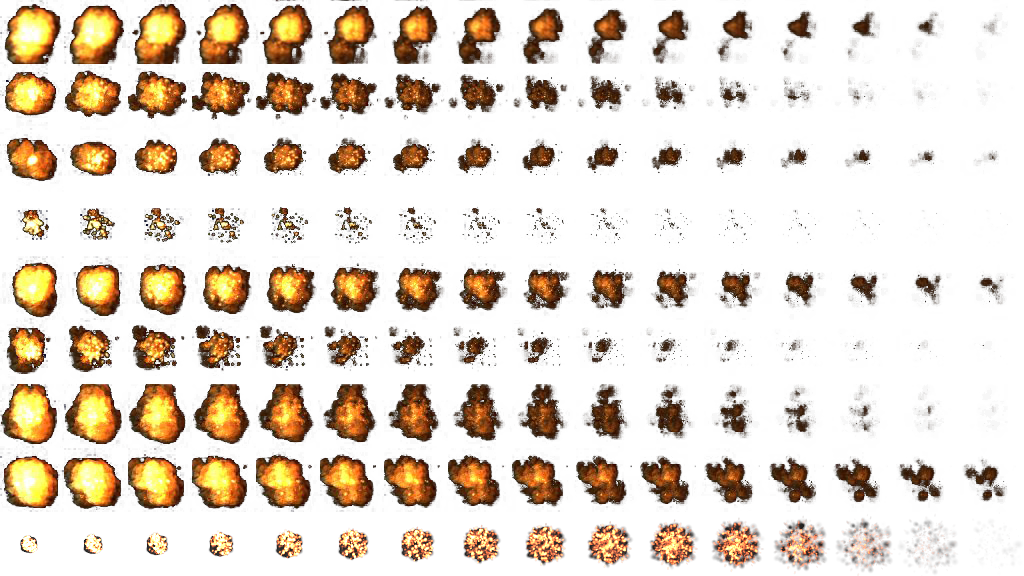
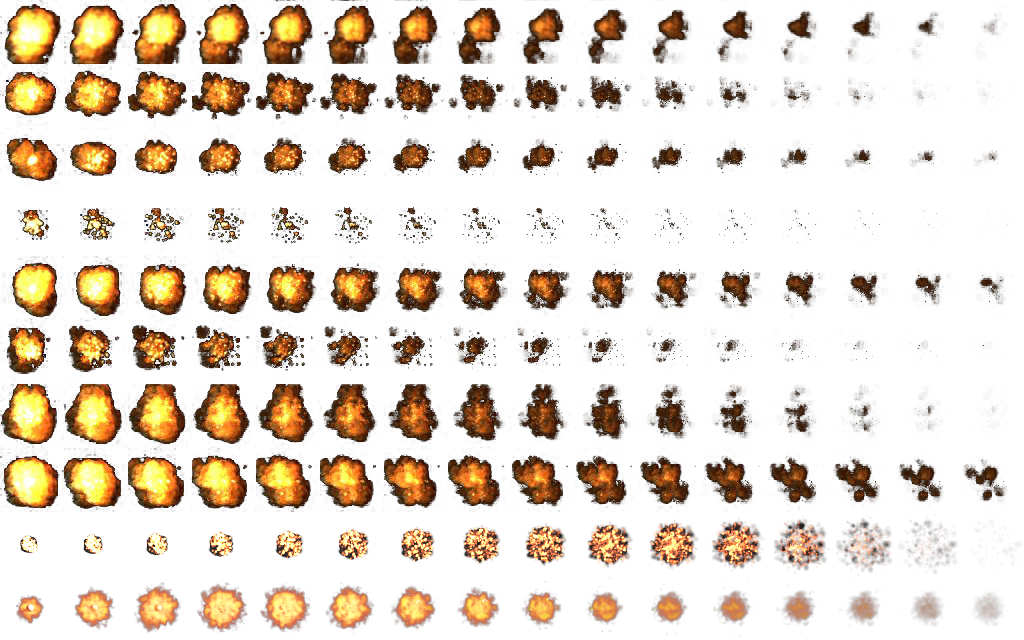
sprites and buttons

diff --git a/src/main/java/com/tesserate/jackpot/Jackpot.java b/src/main/java/com/tesserate/jackpot/Jackpot.java
@@ -8,11 +8,13 @@ import com.tesserate.game.api.fs.ResourceManager;
 import com.tesserate.game.api.fs.TextFileResource;
 import com.tesserate.game.api.sound.SoundManager;
 import com.tesserate.game.api.ui.FullScreenDevice;
+import com.tesserate.game.api.ui.NullRepaintManager;
 import com.tesserate.game.api.ui.SceneGraph;
 
 public class Jackpot extends GameCore{
 
 	private Arena arena;
+	private static String file = "";
 
 	@Override
 	public void init() {
@@ -24,6 +26,7 @@ public class Jackpot extends GameCore{
 		arena.setW(FullScreenDevice.getWidth());
 		arena.setH(FullScreenDevice.getHeight());
 		arena.init();
+		NullRepaintManager.install(); //nao sei porque eu coloquei isso no PMT
 	}
 
 	@Override
@@ -73,29 +76,21 @@ public class Jackpot extends GameCore{
 	}
 
 	private void addColoredBallsResource() {
-		addResource("ball_0", "b_amarela_c.png");
-		addResource("ball_1", "b_amarela_e.png");
-		addResource("ball_2", "b_azul_c.png");
-		addResource("ball_3", "b_azul_e.png");
-		addResource("ball_4", "b_azul.png");
-		addResource("ball_5", "b_ciano_c.png");
-		addResource("ball_6", "b_ciano_e.png");
-		addResource("ball_7", "b_laranja.png");		
-		addResource("ball_8", "b_marrom.png");
-		addResource("ball_9", "b_rosa_c.png");		
-		addResource("ball_10", "b_rosa_e.png");
-		addResource("ball_11", "b_roxa.png");		
-		addResource("ball_12", "b_verde_c.png");
-		addResource("ball_13", "b_verde_e.png");		
-		addResource("ball_14", "b_vermelho_c.png");
-		addResource("ball_15", "b_vermelho_e.png");
 		addResource("explosion", "explosions.png");
+		addResource("buttons", "buttons.png");
+		addResource("start", "start.png");
 		addResource("spaceship", "spaceships32x32.png");
+		addResource("ball", "ball.png");
 	}
 	
 	private void addFilePlayers(){
-		Resource file = new TextFileResource("players", "./src/main/resources/concorrentes.txt");
-		ResourceManager.addResource(file);
+		Resource playerFile;
+		if(file == null)
+			playerFile = new TextFileResource("players", "./src/main/resources/concorrentes.txt");
+		else{
+			playerFile = new TextFileResource("players", file);
+		}
+		ResourceManager.addResource(playerFile);
 	}
 
 	private void addResource(final String resourceId, final String resourceFile) {
@@ -107,6 +102,10 @@ public class Jackpot extends GameCore{
 	public static void main(final String[] args) {
 		try{
 			new Jackpot();
+			 for (String s: args) {
+				 if(!s.isEmpty())
+					 file = s;
+			 }
 		}catch (final Exception e) {
 			e.printStackTrace();
 			System.exit(0);

diff --git a/src/main/java/com/tesserate/jackpot/Ball.java b/src/main/java/com/tesserate/jackpot/Ball.java
@@ -41,8 +41,7 @@ public class Ball extends GraphicsObjects {
 		label.setFont(new Font("Arial", Font.PLAIN, 10));
 		label.setColor(new Color(138,144,149));
 		label.setAlignment(CENTER_ALIGNMENT);
-		sprite = new AnimatedSprite(ResourceManager.getImageResource("explosion"), 16, 16, 1, 64, 64, 0, Util.rnd(0,8)*64);
-		//sprite = new Sprite(ResourceManager.getImageResource("explosion"), 16, 4, 4, 64, 64, 0, 0);
+		sprite = new AnimatedSprite(ResourceManager.getImageResource("explosion"), 16, 16, 1, 64, 64, 0, Util.rnd(0,9)*64);
 	}
 	
 	@Override

diff --git a/src/test/java/com/tesserate/jackpot/TestBall.java b/src/test/java/com/tesserate/jackpot/TestBall.java
@@ -7,11 +7,6 @@ public class TestBall {
 
 	@Test
 	public void testCollide(){
-		Ball b1 = new Ball("");
-		Ball b2 = new Ball("");
-		b1.setPosition(0, 0);
-		b2.setPosition(100,200);
-		
-		assertFalse(b1.isCollide(b2));
+	
 	}
 }
